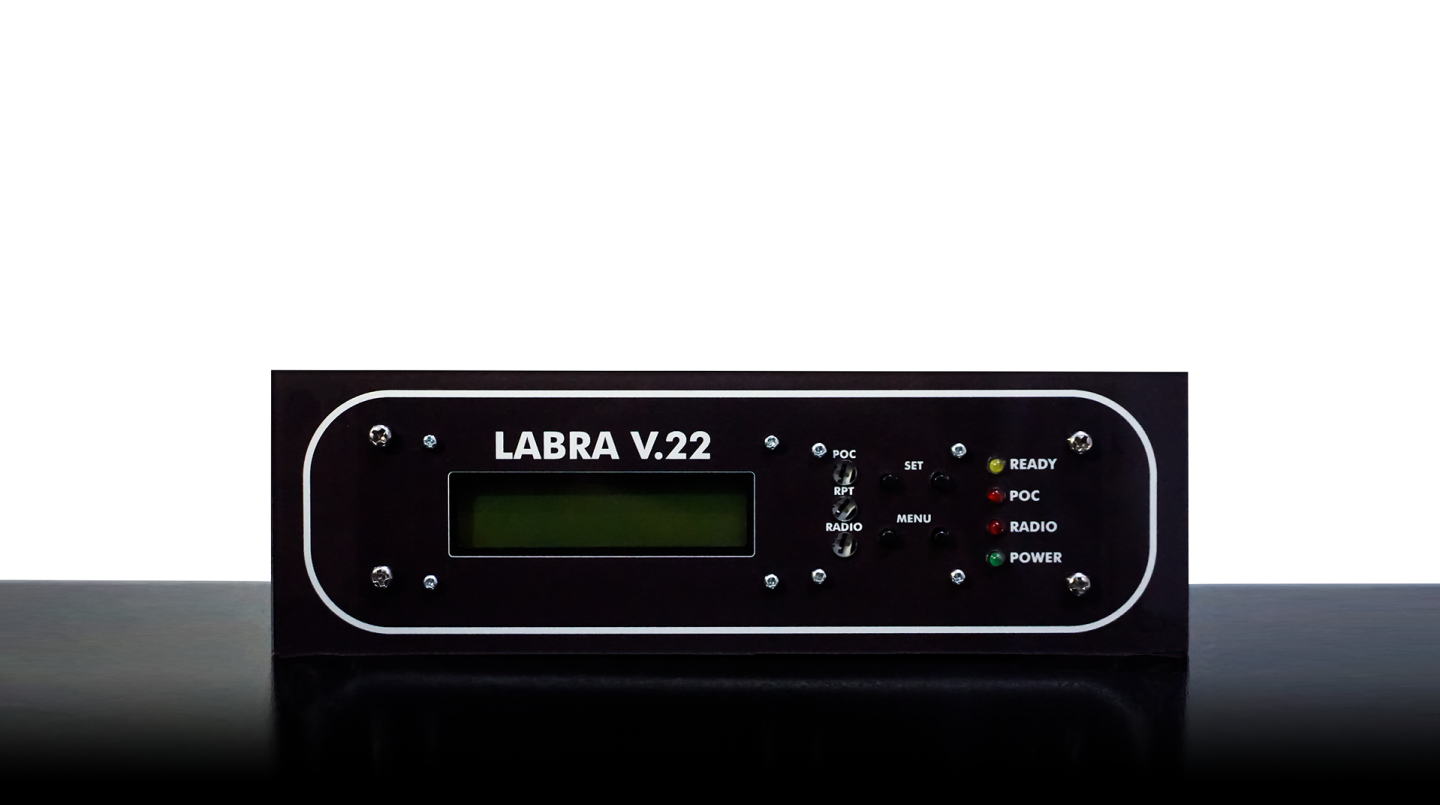
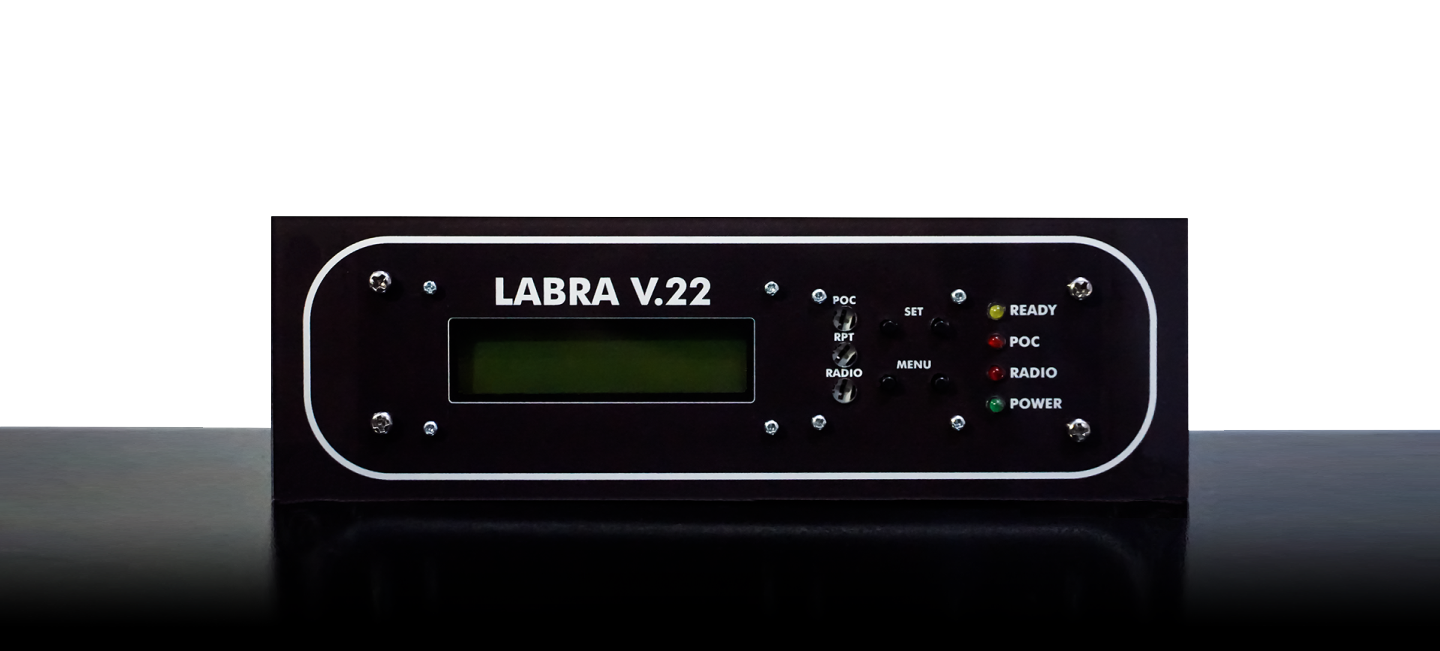
Labra Img

diff --git a/src/pages/index.tsx b/src/pages/index.tsx
@@ -1,18 +1,22 @@
+import Image from "next/image";
+
 import GlobalContainer from "@/components/templates/GlobalContainer";
 import ContentContainer from "@/components/templates/ContentContainer";
 
 import Slider from "@/components/organisms/Slider";
 import Navbar from "@/components/organisms/Navbar";
+import Text, { TextType } from "@/components/atoms/Text";
+
+import LabraBg from "@/assets/img/labra-product.png";
 
 import "swiper/css";
-import Text, { TextType } from "@/components/atoms/Text";
 
 export default function Home() {
   return (
     <>
       <Navbar />
       <Slider />
-      <div className="bg-grey h-[1200px]">
+      <div className="bg-grey">
         <GlobalContainer>
         <ContentContainer title="About">
           <Text textType={TextType.Regular}>
@@ -20,6 +24,11 @@ export default function Home() {
           </Text>
         </ContentContainer>
         </GlobalContainer>
+        <Image
+          src={LabraBg}
+          alt="Picture of Labra (IP Radio)"
+          className="w-[100vw]"
+        />
       </div>
     </>
   )

diff --git a/src/components/templates/GlobalContainer.tsx b/src/components/templates/GlobalContainer.tsx
@@ -7,7 +7,7 @@ interface Props {
 
 const GlobalContainer = ({ children, addClassName }: Props) => {
     return (
-        <div className={`w-[100vw] flex justify-center `}>
+        <div className={`w-[100vw] flex justify-center`}>
             <div className={`w-[1110px] ${addClassName} xl:w-[100vw] xl:px-[5%]`}>
                 {children}
             </div>
